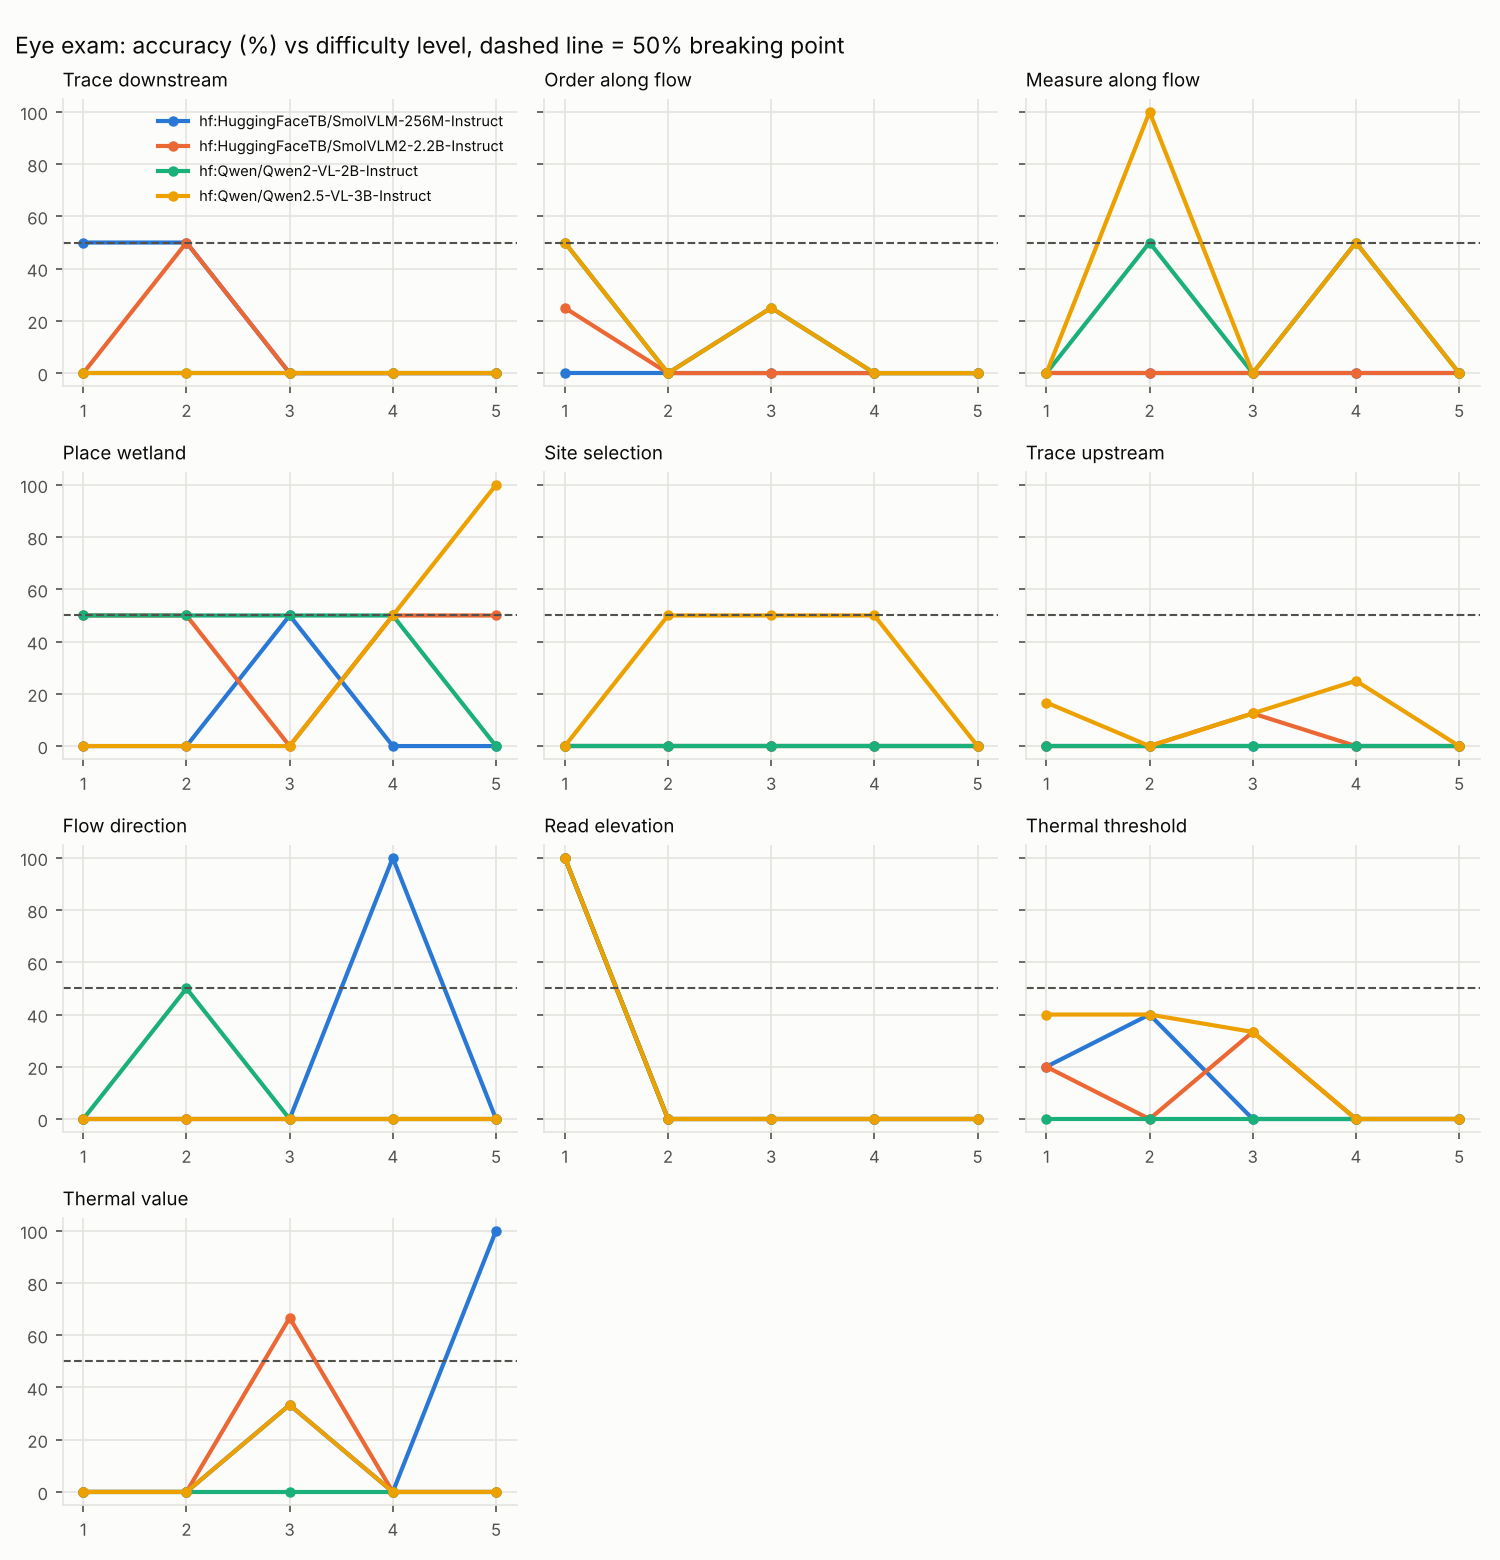
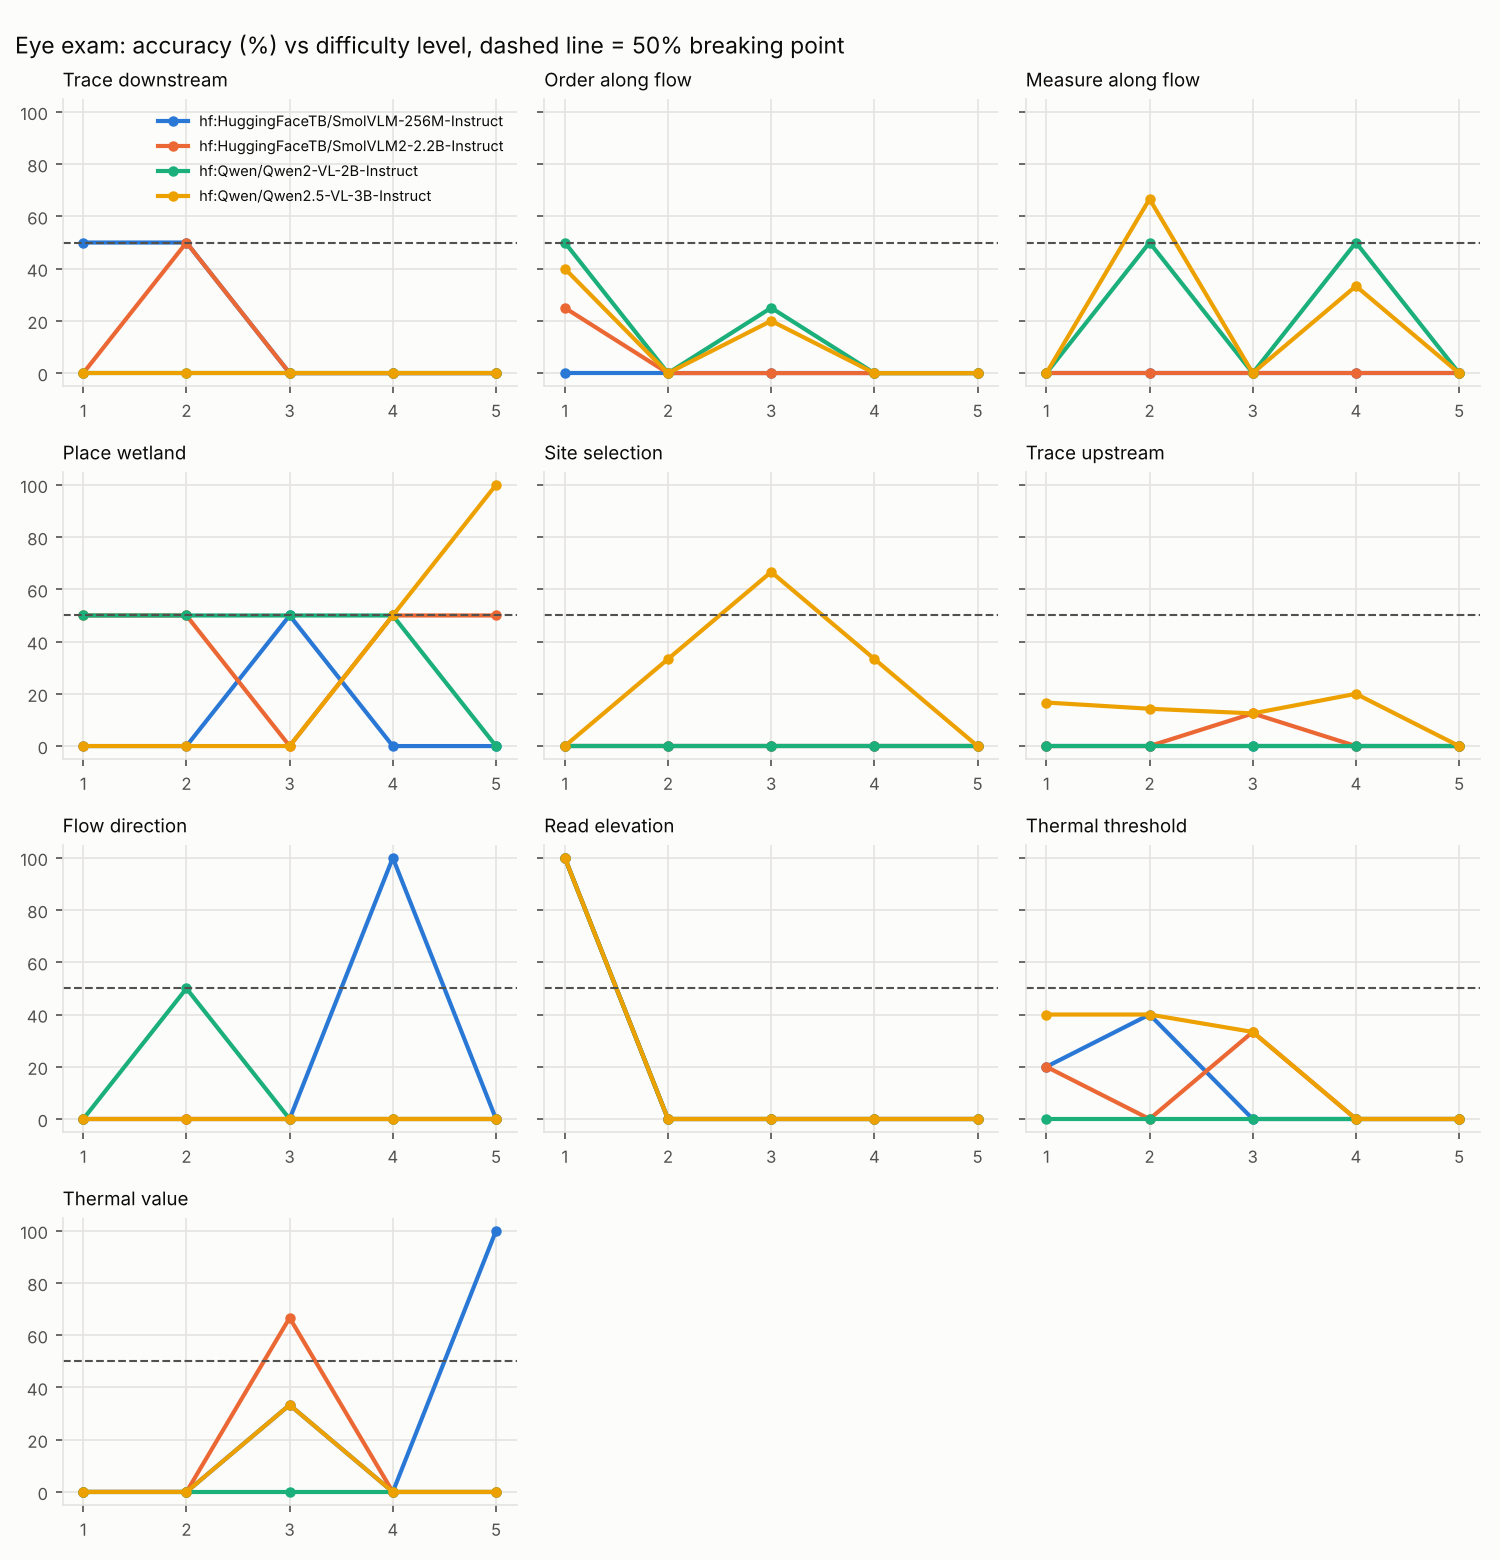
Appearance-variant results for Qwen2.5-VL-3B; Qwen2-VL-2B in progress

diff --git a/results/open_models/REPORT.md b/results/open_models/REPORT.md
@@ -7,7 +7,7 @@
 | hf:HuggingFaceTB/SmolVLM-256M-Instruct | 8% | 10% | 144 |
 | hf:HuggingFaceTB/SmolVLM2-2.2B-Instruct | 8% | 12% | 144 |
 | hf:Qwen/Qwen2-VL-2B-Instruct | 8% | 9% | 144 |
-| hf:Qwen/Qwen2.5-VL-3B-Instruct | 16% | 13% | 144 |
+| hf:Qwen/Qwen2.5-VL-3B-Instruct | 15% | 13% | 168 |
 
 ## Better than guessing?
 
@@ -18,7 +18,7 @@ Chance = expected accuracy of a random guesser on exactly these tasks (from each
 | hf:HuggingFaceTB/SmolVLM-256M-Instruct | 11/144 | 8% | 13% | 0.99 |
 | hf:HuggingFaceTB/SmolVLM2-2.2B-Instruct | 12/144 | 8% | 13% | 0.97 |
 | hf:Qwen/Qwen2-VL-2B-Instruct | 12/144 | 8% | 13% | 0.97 |
-| hf:Qwen/Qwen2.5-VL-3B-Instruct | 23/144 | 16% | 13% | 0.18 |
+| hf:Qwen/Qwen2.5-VL-3B-Instruct | 25/168 | 15% | 13% | 0.29 |
 
 ## Accuracy by visual skill
 
@@ -26,13 +26,13 @@ Tasks = distinct tasks per skill (every model answers the same ones); with 10-30
 
 | Skill | Tasks | Chance | hf:HuggingFaceTB/SmolVLM-256M-Instruct | hf:HuggingFaceTB/SmolVLM2-2.2B-Instruct | hf:Qwen/Qwen2-VL-2B-Instruct | hf:Qwen/Qwen2.5-VL-3B-Instruct |
 |---|---|---|---|---|---|---|
-| Trace downstream | 15 | 2% | 13% | 7% | 0% | 0% |
-| Order along flow | 24 | 18% | 0% | 4% | 17% | 17% |
-| Measure along flow | 10 | 11% | 0% | 0% | 20% | 30% |
-| Place wetland | 10 | 25% | 10% | 40% | 40% | 30% |
-| Site selection | 10 | 33% | 0% | 0% | 0% | 30% |
-| Trace upstream | 30 | 4% | 0% | 3% | 0% | 10% |
-| Flow direction | 10 | 12% | 20% | 0% | 10% | 0% |
+| Trace downstream | 19 | 2% | 13% | 7% | 0% | 0% |
+| Order along flow | 28 | 18% | 0% | 4% | 17% | 14% |
+| Measure along flow | 14 | 10% | 0% | 0% | 20% | 21% |
+| Place wetland | 13 | 25% | 10% | 40% | 40% | 23% |
+| Site selection | 13 | 33% | 0% | 0% | 0% | 31% |
+| Trace upstream | 33 | 4% | 0% | 3% | 0% | 12% |
+| Flow direction | 13 | 12% | 20% | 0% | 10% | 0% |
 | Read elevation | 5 | 8% | 20% | 20% | 20% | 20% |
 | Thermal threshold | 19 | 11% | 16% | 11% | 0% | 26% |
 | Thermal value | 11 | 20% | 18% | 18% | 0% | 9% |
@@ -42,7 +42,7 @@ Tasks = distinct tasks per skill (every model answers the same ones); with 10-30
 | Skill | hf:HuggingFaceTB/SmolVLM-256M-Instruct | hf:HuggingFaceTB/SmolVLM2-2.2B-Instruct | hf:Qwen/Qwen2-VL-2B-Instruct | hf:Qwen/Qwen2.5-VL-3B-Instruct |
 |---|---|---|---|---|
 | Trace downstream | 3 | 1 | 1 | 1 |
-| Order along flow | 1 | 1 | 2 | 2 |
+| Order along flow | 1 | 1 | 2 | 1 |
 | Measure along flow | 1 | 1 | 1 | 1 |
 | Place wetland | 1 | 3 | 5 | 1 |
 | Site selection | 1 | 1 | 1 | 1 |
@@ -68,6 +68,14 @@ Pair accuracy counts a pair only if BOTH the original and its twin are answered 
 | hf:Qwen/Qwen2-VL-2B-Instruct | 30 | 5% | 0% | 87% |
 | hf:Qwen/Qwen2.5-VL-3B-Instruct | 30 | 18% | 0% | 87% |
 
+## Appearance invariance (same scene and answers, different look)
+
+Each group is one satellite question shown four ways: dry season (original), monsoon, haze, and a coarser sensor. The correct answer never changes, so a robust model answers the same every time.
+
+| Model | Groups | Dry | Monsoon | Haze | Coarse | Same answer in all 4 | Right in all 4 |
+|---|---|---|---|---|---|---|---|
+| hf:Qwen/Qwen2.5-VL-3B-Instruct | 24 | 8% | 8% | 8% | 4% | 75% | 4% |
+
 ## Perception probes: can the model even read the image?
 
 No reasoning needed: these only ask the model to read what is printed on the image. Low scores here mean failures elsewhere start with perception, not reasoning.
@@ -86,7 +94,7 @@ No reasoning needed: these only ask the model to read what is printed on the ima
 | hf:HuggingFaceTB/SmolVLM-256M-Instruct | 98 | 18% | missed_some (56), unparseable_or_no_answer (36), extra_unrelated (11), underestimate (9) |
 | hf:HuggingFaceTB/SmolVLM2-2.2B-Instruct | 98 | 51% | missed_some (34), unparseable_or_no_answer (32), trap:downstream_not_upstream (21), underestimate (14) |
 | hf:Qwen/Qwen2-VL-2B-Instruct | 98 | 66% | trap:downstream_not_upstream (29), trap:other_stream (18), missed_some (16), unparseable_or_no_answer (15) |
-| hf:Qwen/Qwen2.5-VL-3B-Instruct | 98 | 27% | missed_some (52), extra_unrelated (21), wrong_choice (19), overestimate (13) |
+| hf:Qwen/Qwen2.5-VL-3B-Instruct | 112 | 27% | missed_some (58), wrong_choice (25), extra_unrelated (24), overestimate (16) |
 
 Tasks a majority of real models answered correctly WITHOUT the image: 11
 
@@ -97,7 +105,7 @@ Tasks a majority of real models answered correctly WITHOUT the image: 11
 | hf:HuggingFaceTB/SmolVLM-256M-Instruct | 199768 | 8185 | 0 | 9.73 |
 | hf:HuggingFaceTB/SmolVLM2-2.2B-Instruct | 241384 | 4109 | 0 | 9.72 |
 | hf:Qwen/Qwen2-VL-2B-Instruct | 168420 | 5055 | 0 | 6.05 |
-| hf:Qwen/Qwen2.5-VL-3B-Instruct | 168420 | 2857 | 0 | 6.69 |
+| hf:Qwen/Qwen2.5-VL-3B-Instruct | 192151 | 3087 | 0 | 7.14 |
 
 ![skills](chart_accuracy_by_skill.png)
 

diff --git a/docs/FINDINGS.md b/docs/FINDINGS.md
@@ -4,16 +4,19 @@ Free, open-weight models from Hugging Face, run locally on CPU (no API keys). Ev
 
 | Model | Size | Accuracy | Without image | Chance | p (beats chance) | Pair accuracy | Same answer to original & twin | Same answer in 4 looks | Reading checks |
 |---|---|---|---|---|---|---|---|---|---|
-| Qwen2.5-VL-3B-Instruct | 3B | **16%** (23/144) | 13% | 13% | 0.18 | 0% | 87% | – | 69% (n=16) |
+| Qwen2.5-VL-3B-Instruct | 3B | **15%** (25/168) | 13% | 13% | 0.29 | 0% | 87% | 75% (n=24) | 69% (n=16) |
 | SmolVLM2-2.2B-Instruct | 2.2B | **8%** (12/144) | 12% | 13% | 0.97 | 0% | 77% | – | 69% (n=16) |
 | Qwen2-VL-2B-Instruct | 2B | **8%** (12/144) | 9% | 13% | 0.97 | 0% | 87% | – | 94% (n=16) |
 | SmolVLM-256M-Instruct | 0.26B | **8%** (11/144) | 10% | 13% | 0.99 | 0% | 73% | – | 0% (n=16) |
 
+*Interim: evaluation still running for SmolVLM2-2.2B-Instruct (144 of 168 tasks so far), Qwen2-VL-2B-Instruct (144 of 168 tasks so far), SmolVLM-256M-Instruct (144 of 168 tasks so far); numbers for it will change and more models may be added.*
+
 ## What the numbers say
 
-- **No open model is significantly better than random guessing overall** (all p ≥ 0.05). The best, Qwen2.5-VL-3B-Instruct, scores 16% against a chance level of 13% (p = 0.18).
-- **The image barely helps.** Accuracy with vs without the image: Qwen2.5-VL-3B-Instruct 16% vs 13%; SmolVLM2-2.2B-Instruct 8% vs 12%; Qwen2-VL-2B-Instruct 8% vs 9%; SmolVLM-256M-Instruct 8% vs 10%.
+- **No open model is significantly better than random guessing overall** (all p ≥ 0.05). The best, Qwen2.5-VL-3B-Instruct, scores 15% against a chance level of 13% (p = 0.29).
+- **The image barely helps.** Accuracy with vs without the image: Qwen2.5-VL-3B-Instruct 15% vs 13%; SmolVLM2-2.2B-Instruct 8% vs 12%; Qwen2-VL-2B-Instruct 8% vs 9%; SmolVLM-256M-Instruct 8% vs 10%.
 - **Counterfactual twins expose answering from habit.** Share of pairs where the model gave the same answer to the original and to its twin (whose correct answer is different): Qwen2.5-VL-3B-Instruct 87% (both right: 0%); SmolVLM2-2.2B-Instruct 77% (both right: 0%); Qwen2-VL-2B-Instruct 87% (both right: 0%); SmolVLM-256M-Instruct 73% (both right: 0%).
+- **Appearance changes move answers.** Share of question groups answered identically in the dry-season, monsoon, haze and coarse-sensor versions of the same scene (the correct answer is identical in all four): Qwen2.5-VL-3B-Instruct 75%.
 - **Can they read the image at all?** Reading checks need no reasoning: list every village or monitoring-point label written on the image, or read the spot height printed next to pond P: Qwen2.5-VL-3B-Instruct 69%; SmolVLM2-2.2B-Instruct 69%; Qwen2-VL-2B-Instruct 94%; SmolVLM-256M-Instruct 0%. A model that reads labels but fails the water questions is failing the reasoning, not the eyesight.
 - **Skill profile of the best model (Qwen2.5-VL-3B-Instruct):** clearly above chance on Measure along flow, Read elevation, Thermal threshold; **0% on Trace downstream, Flow direction**.
 
@@ -21,13 +24,13 @@ Free, open-weight models from Hugging Face, run locally on CPU (no API keys). Ev
 
 | Skill | Tasks | Chance | Qwen2.5-VL-3B-Instruct | SmolVLM2-2.2B-Instruct | Qwen2-VL-2B-Instruct | SmolVLM-256M-Instruct |
 |---|---|---|---|---|---|---|
-| Trace downstream | 15 | 2% | 0% | 7% | 0% | 13% |
-| Order along flow | 24 | 18% | 17% | 4% | 17% | 0% |
-| Measure along flow | 10 | 11% | 30% | 0% | 20% | 0% |
-| Place wetland | 10 | 25% | 30% | 40% | 40% | 10% |
-| Site selection | 10 | 33% | 30% | 0% | 0% | 0% |
-| Trace upstream | 30 | 4% | 10% | 3% | 0% | 0% |
-| Flow direction | 10 | 12% | 0% | 0% | 10% | 20% |
+| Trace downstream | 19 | 2% | 0% | 7% | 0% | 13% |
+| Order along flow | 28 | 18% | 14% | 4% | 17% | 0% |
+| Measure along flow | 14 | 10% | 21% | 0% | 20% | 0% |
+| Place wetland | 13 | 25% | 23% | 40% | 40% | 10% |
+| Site selection | 13 | 33% | 31% | 0% | 0% | 0% |
+| Trace upstream | 33 | 4% | 12% | 3% | 0% | 0% |
+| Flow direction | 13 | 12% | 0% | 0% | 10% | 20% |
 | Read elevation | 5 | 8% | 20% | 20% | 20% | 20% |
 | Thermal threshold | 19 | 11% | 26% | 11% | 0% | 16% |
 | Thermal value | 11 | 20% | 9% | 18% | 0% | 18% |

diff --git a/README.md b/README.md
@@ -17,16 +17,19 @@ See [`docs/ARCHITECTURE.md`](docs/ARCHITECTURE.md) for the pipeline diagram and 
 
 | Model | Size | Accuracy | Without image | Chance | p (beats chance) | Pair accuracy | Same answer to original & twin | Same answer in 4 looks | Reading checks |
 |---|---|---|---|---|---|---|---|---|---|
-| Qwen2.5-VL-3B-Instruct | 3B | **16%** (23/144) | 13% | 13% | 0.18 | 0% | 87% | – | 69% (n=16) |
+| Qwen2.5-VL-3B-Instruct | 3B | **15%** (25/168) | 13% | 13% | 0.29 | 0% | 87% | 75% (n=24) | 69% (n=16) |
 | SmolVLM2-2.2B-Instruct | 2.2B | **8%** (12/144) | 12% | 13% | 0.97 | 0% | 77% | – | 69% (n=16) |
 | Qwen2-VL-2B-Instruct | 2B | **8%** (12/144) | 9% | 13% | 0.97 | 0% | 87% | – | 94% (n=16) |
 | SmolVLM-256M-Instruct | 0.26B | **8%** (11/144) | 10% | 13% | 0.99 | 0% | 73% | – | 0% (n=16) |
 
+*Interim: evaluation still running for SmolVLM2-2.2B-Instruct (144 of 168 tasks so far), Qwen2-VL-2B-Instruct (144 of 168 tasks so far), SmolVLM-256M-Instruct (144 of 168 tasks so far); numbers for it will change and more models may be added.*
+
 ### What the numbers say
 
-- **No open model is significantly better than random guessing overall** (all p ≥ 0.05). The best, Qwen2.5-VL-3B-Instruct, scores 16% against a chance level of 13% (p = 0.18).
-- **The image barely helps.** Accuracy with vs without the image: Qwen2.5-VL-3B-Instruct 16% vs 13%; SmolVLM2-2.2B-Instruct 8% vs 12%; Qwen2-VL-2B-Instruct 8% vs 9%; SmolVLM-256M-Instruct 8% vs 10%.
+- **No open model is significantly better than random guessing overall** (all p ≥ 0.05). The best, Qwen2.5-VL-3B-Instruct, scores 15% against a chance level of 13% (p = 0.29).
+- **The image barely helps.** Accuracy with vs without the image: Qwen2.5-VL-3B-Instruct 15% vs 13%; SmolVLM2-2.2B-Instruct 8% vs 12%; Qwen2-VL-2B-Instruct 8% vs 9%; SmolVLM-256M-Instruct 8% vs 10%.
 - **Counterfactual twins expose answering from habit.** Share of pairs where the model gave the same answer to the original and to its twin (whose correct answer is different): Qwen2.5-VL-3B-Instruct 87% (both right: 0%); SmolVLM2-2.2B-Instruct 77% (both right: 0%); Qwen2-VL-2B-Instruct 87% (both right: 0%); SmolVLM-256M-Instruct 73% (both right: 0%).
+- **Appearance changes move answers.** Share of question groups answered identically in the dry-season, monsoon, haze and coarse-sensor versions of the same scene (the correct answer is identical in all four): Qwen2.5-VL-3B-Instruct 75%.
 - **Can they read the image at all?** Reading checks need no reasoning: list every village or monitoring-point label written on the image, or read the spot height printed next to pond P: Qwen2.5-VL-3B-Instruct 69%; SmolVLM2-2.2B-Instruct 69%; Qwen2-VL-2B-Instruct 94%; SmolVLM-256M-Instruct 0%. A model that reads labels but fails the water questions is failing the reasoning, not the eyesight.
 - **Skill profile of the best model (Qwen2.5-VL-3B-Instruct):** clearly above chance on Measure along flow, Read elevation, Thermal threshold; **0% on Trace downstream, Flow direction**.
 
